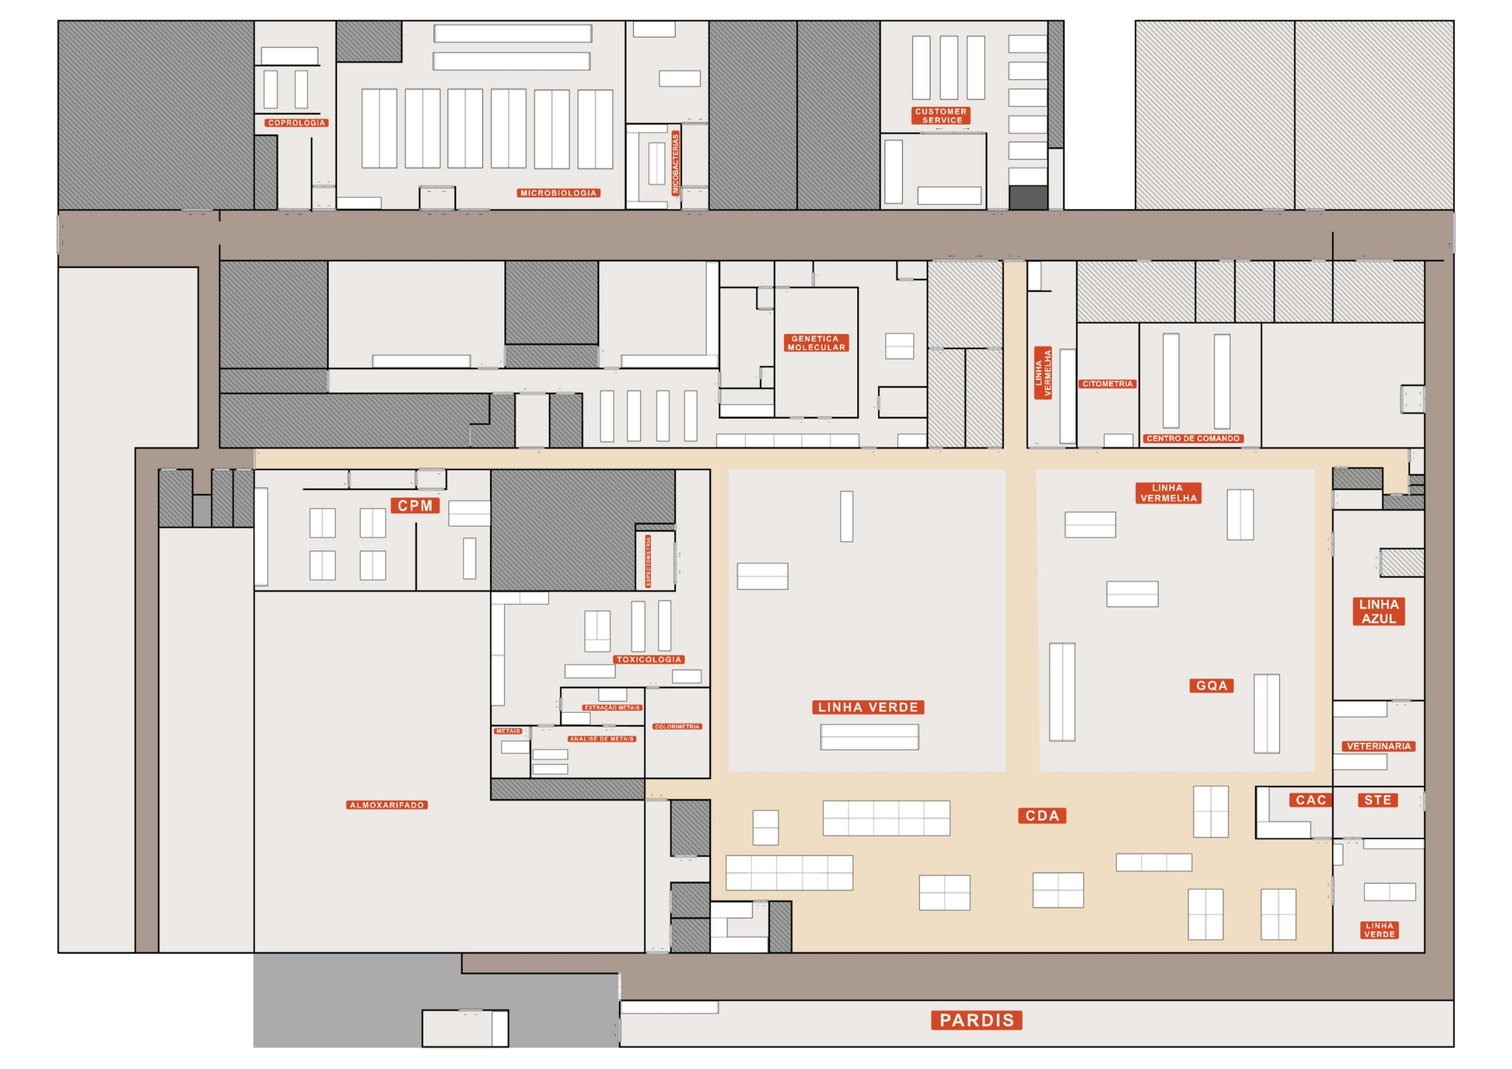
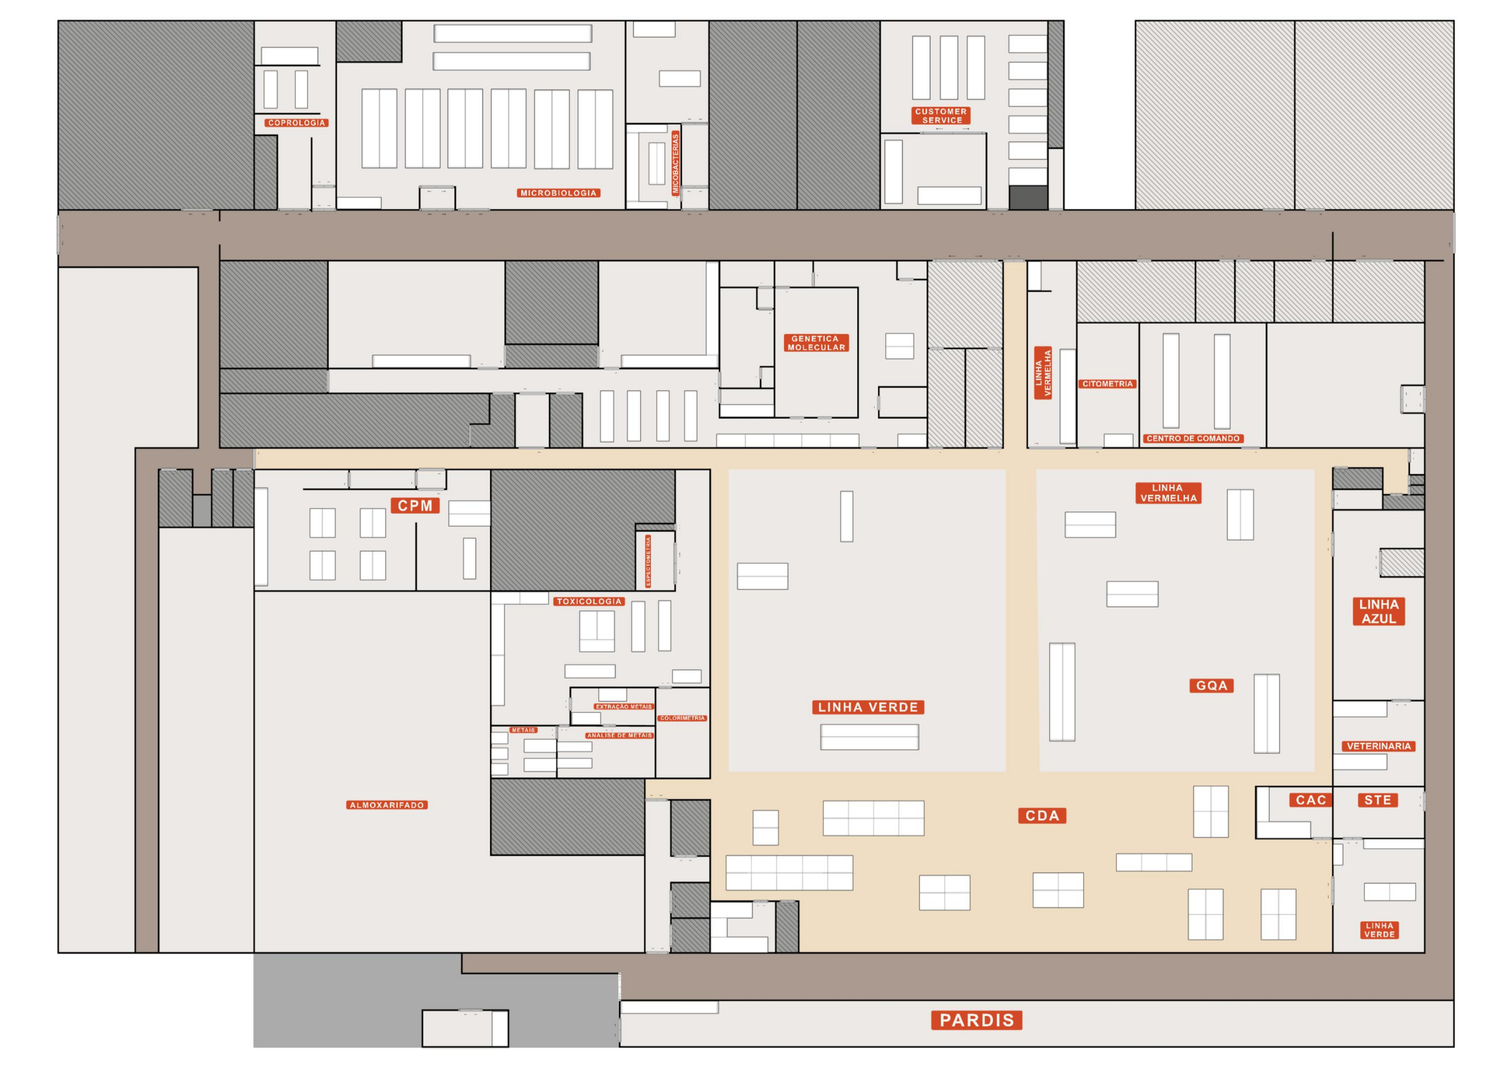
atualização das impressoras e da planta

Changed region(s): [[0.3125, 0.5569, 0.4688, 0.8044], [0.5938, 0.7425, 0.625, 0.8044], [0.5, 0.8354, 0.5312, 0.8972]]

diff --git a/MapaNto/index.html b/MapaNto/index.html
@@ -142,81 +142,82 @@ document.addEventListener('DOMContentLoaded', () => {
   let focusResetTimer = null;
   let repositionTargetSelb = null; // quando setado, clique no mapa reposiciona essa impressora
 
-  const initialPrinters = [
-  { name:'CDA00030', department:'Customer Service', ip:'172.19.114.30', selb:'1LG9', status:'Offline', pos:{top:'11.914484746576989%', left:'68.37635869565217%'} },
-  { name:'NCS14224', department:'Customer Service', ip:'172.19.114.224', selb:'OJL4', status:'Offline', pos:{top:'16.814797021378812%', left:'68.51222826086956%'} },
-  { name:'MIC11475', department:'Microbiologia Minietiqueta 5x3', ip:'172.19.114.75', selb:'Microbiologia GC420t', status:'Offline', pos:{top:'14.893105933221234%', left:'25.78125%'} },
-  { name:'MIC19194', department:'Microbiologia', ip:'172.19.114.192', selb:'5H04', status:'Offline', pos:{top:'11.145808311313957%', left:'25.8491847826087%'} },
-  { name:'CRP04095', department:'Coprologia Minietiqueta 7x3', ip:'172.19.114.92', selb:'Coprologia GC420t', status:'Offline', pos:{top:'5.476819601249099%', left:'19.870923913043477%'} },
-  { name:'MIC22094', department:'Micobacterias', ip:'172.19.114.220', selb:'DCC8', status:'Offline', pos:{top:'16.04612058611578%', left:'43.51222826086957%'} },
-  { name:'MIC02117', department:'Micobacterias Minietiquetas 5x3', ip:'172.19.114.117', selb:'Micobacterias GC420t', status:'Offline', pos:{top:'17.775642565457602%', left:'41.88179347826087%'} },
-  { name:'MIC02494', department:'Micobacterias', ip:'172.19.114.24', selb:'4Q88', status:'Offline', pos:{top:'7.526679928436487%', left:'45.71469009013791%'} },
-  { name:'CDA10394', department:'CAC', ip:'172.19.141.103', selb:'SPR2', status:'Desconhecido', pos:{top:'77.15589718952678%', left:'83.86548913043478%'} },
-  { name:'CDA13094', department:'CDA', ip:'172.19.141.130', selb:'8KQ6', status:'Desconhecido', pos:{top:'84.07398510689407%', left:'84.9524456521739%'} },
-  { name:'CDA15194', department:'CDA', ip:'172.19.141.151', selb:'ZYG3', status:'Offline', pos:{top:'76.96372808071102%', left:'80.53668478260869%'} },
-  { name:'CDA12194', department:'CDA', ip:'172.19.141.121', selb:'8KP6', status:'Desconhecido', pos:{top:'86.57218352149893%', left:'83.72961956521739%'} },
-  { name:'CDA10094', department:'CDA', ip:'172.19.141.100', selb:'PGL6', status:'Offline', pos:{top:'86.57218352149893%', left:'78.90625%'} },
-  { name:'CDA14494', department:'CDA', ip:'172.19.141.144', selb:'3V12', status:'Offline', pos:{top:'74.27336055729042%', left:'80.60461956521739%'} },
-  { name:'LVR19394', department:'Linha Verde', ip:'172.19.114.193', selb:'6PL1', status:'Desconhecido', pos:{top:'83.20922411722316%', left:'90.72690217391305%'} },
-  { name:'TOX11425', department:'Toxicologia', ip:'172.19.114.25', selb:'0AFP', status:'Offline', pos:{top:'54.672111458083116%', left:'50.71331521739131%'} },
-  { name:'TOX11429', department:'Toxicologia', ip:'172.19.114.29', selb:'NDK3', status:'Desconhecido', pos:{top:'53.13475858755705%', left:'49.62635869565217%'} },
-  { name:'HEM14094', department:'Hematologia', ip:'172.19.114.140', selb:'0K65', status:'Offline', pos:{top:'48.13836175834735%', left:'56.01222826086957%'} },
-  { name:'AML22194', department:'Linha Amarela', ip:'172.19.114.221', selb:'7OL4', status:'Offline', pos:{top:'67.93177996637041%', left:'69.7350543478261%'} },
-  { name:'CITO00898', department:'Citometria', ip:'172.19.114.98', selb:'7ZK8', status:'Desconhecido', pos:{top:'41.02810473216431%', left:'73.33559782608695%'} },
-  { name:'AIM00817', department:'Linha Vermelha', ip:'172.19.114.172', selb:'3L29', status:'Offline', pos:{top:'46.985347105452796%', left:'82.30298913043478%'} },
-  { name:'MIC07894', department:'Microbiologia', ip:'172.19.114.78', selb:'16VX', status:'Offline', pos:{top:'14.989190487629115%', left:'27.47961956521739%'} },
-  { name:'MIC24094', department:'Microbiologia', ip:'172.19.114.240', selb:'5G78', status:'Offline', pos:{top:'12.49099207302426%', left:'27.4116847826087%'} },
-  { name:'MIC19245', department:'Microbiologia', ip:'172.19.114.245', selb:'YEJ4', status:'Offline', pos:{top:'9.320201777564256%', left:'27.34375%'} },
-  { name:'MIC02094', department:'Microbiologia', ip:'172.19.114.20', selb:'MIC02094 ZT230', status:'Offline', pos:{top:'14.989190487629115%', left:'28.634510869565215%'} },
-  { name:'MIC23994', department:'Microbiologia', ip:'172.19.114.239', selb:'4R83', status:'Offline', pos:{top:'13.067499399471535%', left:'28.566576086956523%'} },
-  { name:'MIC02194', department:'Microbiologia', ip:'172.19.114.21', selb:'MIC02194 ZT230', status:'Offline', pos:{top:'11.241892865721836%', left:'28.634510869565215%'} },
-  { name:'MIC02118', department:'Microbiologia', ip:'172.19.114.118', selb:'MIC02118 ZT230', status:'Offline', pos:{top:'9.320201777564256%', left:'28.634510869565215%'} },
-  { name:'MIC23894', department:'Microbiologia', ip:'172.19.114.238', selb:'5G71', status:'Desconhecido', pos:{top:'9.320201777564256%', left:'30.197010869565215%'} },
-  { name:'VET16694', department:'Veterinaria', ip:'172.19.114.166', selb:'ZD220 vet', status:'Desconhecido', pos:{top:'66.2187691576274%', left:'90.89156029686242%'} },
-  { name:'CDA11494', department:'CDA', ip:'172.19.141.114', selb:'CDA11494 GC420T', status:'Desconhecido', pos:{top:'74.54615971674862%', left:'79.11613548107458%'} },
-  { name:'GMO11294', department:'NAO SEI', ip:'172.19.114.112', selb:'GMO11294 GC420T', status:'Desconhecido', pos:{top:'84.87532685258167%', left:'49.39451034507161%'} },
-  { name:'GMO09594', department:'NAO SEI', ip:'172.19.114.95', selb:'GMO09594 GC420T', status:'Offline', pos:{top:'84.87532685258167%', left:'48.20564533963149%'} },
-  { name:'GEN11468', department:'NAO SEI', ip:'172.19.114.68', selb:'GEN11468 GC420T', status:'Desconhecido', pos:{top:'86.47674811395113%', left:'47.52629390795142%'} },
-  { name:'CDA14149', department:'NAO SEI', ip:'172.19.114.149', selb:'CDA14149 ZD220', status:'Desconhecido', pos:{top:'87.99809831225213%', left:'50.13047439605835%'} },
-  { name:'CDA10592', department:'CDA', ip:'172.19.114.105', selb:'CDA10592 ZD230', status:'Desconhecido', pos:{top:'82.31305283439052%', left:'48.82838415200489%'} },
-  { name:'CDA10894', department:'CDA', ip:'172.19.141.108', selb:'CDA10894 ZD230', status:'Offline', pos:{top:'82.39312389745899%', left:'50.470150111898384%'} },
-  { name:'CDA12994', department:'CDA', ip:'172.19.141.129', selb:'CDA12994 ZD230', status:'Desconhecido', pos:{top:'82.47319496052747%', left:'52.111916071791875%'} },
-  { name:'CDA10092', department:'CDA', ip:'172.19.141.153', selb:'CDA10092 ZD230', status:'Desconhecido', pos:{top:'82.39312389745899%', left:'53.866907270298725%'} },
-  { name:'CDA16162', department:'CDA', ip:'172.19.141.162', selb:'CDA16162 ZD230', status:'Desconhecido', pos:{top:'82.39312389745899%', left:'55.508673230192215%'} },
-  { name:'CDA12594', department:'CDA', ip:'172.19.141.125', selb:'CDA12594 ZD230', status:'Offline', pos:{top:'80.31127625767868%', left:'55.508673230192215%'} },
-  { name:'CDA15094', department:'CDA', ip:'172.19.141.150', selb:'CDA15094 ZD230', status:'Desconhecido', pos:{top:'80.31127625767868%', left:'53.866907270298725%'} },
-  { name:'CDA16194', department:'CDA', ip:'172.19.114.136', selb:'CDA16194 ZD230', status:'Desconhecido', pos:{top:'80.39134732074716%', left:'50.526762731205054%'} },
-  { name:'CDA13694', department:'CDA', ip:'172.19.141.136', selb:'CDA13694 ZD230', status:'Desconhecido', pos:{top:'80.39134732074716%', left:'48.82838415200489%'} },
-  { name:'CDA15294', department:'CDA', ip:'172.19.141.152', selb:'CDA15294 ZD230', status:'Desconhecido', pos:{top:'77.2685758610767%', left:'55.225610133658854%'} },
-  { name:'CDA15794', department:'CDA', ip:'172.19.114.157', selb:'CDA15794 ZD230', status:'Desconhecido', pos:{top:'77.18850479800822%', left:'56.86737609355236%'} },
-  { name:'CDA13894', department:'CDA', ip:'172.19.141.138', selb:'CDA13894', status:'Desconhecido', pos:{top:'77.2685758610767%', left:'58.50914205344585%'} },
-  { name:'CDA13994', department:'CDA', ip:'172.19.141.139', selb:'CDA13994 ZD230', status:'Desconhecido', pos:{top:'77.2685758610767%', left:'60.207520632646016%'} },
-  { name:'CDA10594', department:'CDA', ip:'172.19.141.105', selb:'CDA10594 ZD230', status:'Offline', pos:{top:'75.34687034743335%', left:'60.207520632646016%'} },
-  { name:'CDA (SEM LIS)', department:'CDA', ip:'172.19.141.124', selb:'CDA (SEM LIS) ZD230', status:'Offline', pos:{top:'75.42694141050183%', left:'58.50914205344585%'} },
-  { name:'TOX14224', department:'Toxicologia', ip:'172.19.114.227', selb:'TOX14224 zd230', status:'Offline', pos:{top:'67.0995508513806%', left:'37.73231076789711%'} },
-  { name:'TOX072', department:'Toxicologia Metais', ip:'172.19.114.72', selb:'TOX072 zd230', status:'Desconhecido', pos:{top:'69.74189593264022%', left:'34.22232837088342%'} },
-  { name:'TOX11191', department:'Toxicologia', ip:'172.19.114.141', selb:'TOX11191 ZT230', status:'Desconhecido', pos:{top:'56.129815210999766%', left:'33.542976939203356%'} },
-  { name:'TOX11214', department:'Toxicologia', ip:'172.19.114.214', selb:'TOX11214 zt230', status:'Offline', pos:{top:'60.93407899510815%', left:'40.6195543525374%'} },
-  { name:'TOX11410', department:'Toxicologia', ip:'172.19.114.10', selb:'TOX11410 zd230', status:'Offline', pos:{top:'61.01415005817663%', left:'39.31746410848393%'} },
-  { name:'TOX11412', department:'Toxicologia', ip:'172.19.114.12', selb:'TOX11412 zd230', status:'Desconhecido', pos:{top:'57.971449661574646%', left:'44.242761988164425%'} },
-  { name:'TOX114184', department:'Toxicologia', ip:'172.19.114.188', selb:'TOX114184 zd230', status:'Desconhecido', pos:{top:'60.45365261669732%', left:'44.242761988164425%'} },
-  { name:'IMU14094', department:'NAO SEI', ip:'172.19.114.145', selb:'IMU14094 ZD230', status:'Offline', pos:{top:'49.644059102453426%', left:'70.73746782368707%'} },
-  { name:'LAM11491', department:'NAO SEI', ip:'172.19.114.91', selb:'LAM11491 GC420T', status:'Desconhecido', pos:{top:'54.76860713883571%', left:'75.66276570336757%'} },
-  { name:'LVM114225', department:'NAO SEI', ip:'172.19.114.225', selb:'LVM114225 GC420T', status:'Offline', pos:{top:'39.79531834503122%', left:'70.39779210784704%'} },
-  { name:'LVER20694', department:'Linha Vermelha', ip:'172.19.114.206', selb:'LVER20694 gc420t', status:'Desconhecido', pos:{top:'25.862953371116866%', left:'68.4163504321135%'} },
-  { name:'GPR95198', department:'Centro de Comando', ip:'172.19.114.119', selb:'GPR95198 GC420t', status:'Offline', pos:{top:'38.75439452514106%', left:'77.2479190439544%'} },
-  { name:'GQA90119', department:'Setor de Qualidade', ip:'172.19.114.119', selb:'GQA90119 gc420t', status:'Desconhecido', pos:{top:'64.21699258091557%', left:'83.13563145184831%'} },
-  { name:'CPM00115', department:'CPM', ip:'172.19.114.115', selb:'CPM00115 ZD230', status:'Offline', pos:{top:'47.40206933653617%', left:'30.259445019416358%'} },
-  { name:'CPM16899', department:'CPM', ip:'172.19.114.168', selb:'CPM16899 ZD220', status:'Offline', pos:{top:'47.24192721039923%', left:'17.464993056108412%'} },
-  { name:'DNA114994', department:'GMO', ip:'172.19.114.181', selb:'DNA114994 ZD230', status:'Desconhecido', pos:{top:'41.15652641719526%', left:'60.773646825712746%'} },
-  { name:'COP13694', department:'GMO', ip:'172.19.114.136', selb:'COP13694 ZD230', status:'Offline', pos:{top:'41.23659748026373%', left:'59.13188086581924%'} },
-  { name:'BR109295', department:'GMO', ip:'172.19.114.101', selb:'BR109295 ZD230', status:'Desconhecido', pos:{top:'33.06934904727946%', left:'58.84881776928589%'} },
-  { name:'GMO10894', department:'GMO', ip:'172.19.114.108', selb:'GMO10894 GC420T', status:'Desconhecido', pos:{top:'41.23659748026373%', left:'55.16899751435218%'} },
-  { name:'GMO10794', department:'GMO', ip:'172.19.114.107', selb:'GMO10794 GC420', status:'Desconhecido', pos:{top:'41.316668543332206%', left:'53.300781077231996%'} },
-  { name:'GMO114175', department:'GMO', ip:'172.19.114.175', selb:'GMO114175 GC420T', status:'Desconhecido', pos:{top:'38.3540392097987%', left:'48.26225795893816%'} },
-  { name:'GMO20994', department:'GMO', ip:'172.19.114.209', selb:'GMO20994 ZD230', status:'Desconhecido', pos:{top:'33.78998861489572%', left:'30.429282877336377%'} },
-  { name:'LVR1879', department:'Linha Verde', ip:'172.19.114.187', selb:'LVR1879 gc420t', status:'Desconhecido', pos:{top:'69.3730482824886%', left:'54.85733695652174%'} }
+ const initialPrinters = [
+  {name:'CDA00030', department:'Customer Service', ip:'172.19.114.30', selb:'1LG9', status:'Offline', pos:{top:'11.914484746576989%', left:'68.37635869565217%'}},
+  {name:'NCS14224', department:'Customer Service', ip:'172.19.114.224', selb:'OJL4', status:'Offline', pos:{top:'16.814797021378812%', left:'68.51222826086956%'}},
+  {name:'MIC11475', department:'Microbiologia Minietiqueta 5x3', ip:'172.19.114.75', selb:'Microbiologia GC420t', status:'Offline', pos:{top:'14.893105933221234%', left:'25.78125%'}},
+  {name:'MIC19194', department:'Microbiologia', ip:'172.19.114.192', selb:'5H04', status:'Offline', pos:{top:'11.145808311313957%', left:'25.8491847826087%'}},
+  {name:'CRP04095', department:'Coprologia Minietiqueta 7x3', ip:'172.19.114.92', selb:'Coprologia GC420t', status:'Offline', pos:{top:'5.476819601249099%', left:'19.870923913043477%'}},
+  {name:'MIC22094', department:'Micobacterias', ip:'172.19.114.220', selb:'DCC8', status:'Offline', pos:{top:'16.04612058611578%', left:'43.51222826086957%'}},
+  {name:'MIC02117', department:'Micobacterias Minietiquetas 5x3', ip:'172.19.114.117', selb:'Micobacterias GC420t', status:'Offline', pos:{top:'17.775642565457602%', left:'41.88179347826087%'}},
+  {name:'MIC02494', department:'Micobacterias', ip:'172.19.114.24', selb:'4Q88', status:'Offline', pos:{top:'7.526679928436487%', left:'45.71469009013791%'}},
+  {name:'CDA10394', department:'CAC', ip:'172.19.141.103', selb:'SPR2', status:'Offline', pos:{top:'77.15589718952678%', left:'83.86548913043478%'}},
+  {name:'CDA13094', department:'CDA', ip:'172.19.141.130', selb:'8KQ6', status:'Offline', pos:{top:'84.07398510689407%', left:'84.9524456521739%'}},
+  {name:'CDA15194', department:'CDA', ip:'172.19.141.151', selb:'ZYG3', status:'Offline', pos:{top:'76.96372808071102%', left:'80.53668478260869%'}},
+  {name:'CDA12194', department:'CDA', ip:'172.19.141.121', selb:'8KP6', status:'Offline', pos:{top:'86.57218352149893%', left:'83.72961956521739%'}},
+  {name:'CDA10094', department:'CDA', ip:'172.19.141.100', selb:'PGL6', status:'Offline', pos:{top:'86.57218352149893%', left:'78.90625%'}},
+  {name:'CDA14494', department:'CDA', ip:'172.19.141.144', selb:'3V12', status:'Offline', pos:{top:'74.65769877492193%', left:'80.40081521739131%'}},
+  {name:'LVR19394', department:'Linha Verde', ip:'172.19.114.193', selb:'6PL1', status:'Offline', pos:{top:'83.20922411722316%', left:'90.72690217391305%'}},
+  {name:'TOX11425', department:'Toxicologia', ip:'172.19.114.25', selb:'0AFP', status:'Offline', pos:{top:'54.672111458083116%', left:'50.71331521739131%'}},
+  {name:'TOX11429', department:'Toxicologia', ip:'172.19.114.29', selb:'NDK3', status:'Offline', pos:{top:'53.13475858755705%', left:'49.62635869565217%'}},
+  {name:'HEM14094', department:'Hematologia', ip:'172.19.114.140', selb:'0K65', status:'Offline', pos:{top:'48.13836175834735%', left:'56.01222826086957%'}},
+  {name:'AML22194', department:'Linha Amarela', ip:'172.19.114.221', selb:'7OL4', status:'Offline', pos:{top:'67.93177996637041%', left:'69.7350543478261%'}},
+  {name:'CITO00898', department:'Citometria', ip:'172.19.114.98', selb:'7ZK8', status:'Offline', pos:{top:'41.02810473216431%', left:'73.33559782608695%'}},
+  {name:'AIM00817', department:'Linha Vermelha', ip:'172.19.114.172', selb:'3L29', status:'Offline', pos:{top:'46.985347105452796%', left:'82.30298913043478%'}},
+  {name:'MIC07894', department:'Microbiologia', ip:'172.19.114.78', selb:'16VX', status:'Offline', pos:{top:'14.989190487629115%', left:'27.47961956521739%'}},
+  {name:'MIC24094', department:'Microbiologia', ip:'172.19.114.240', selb:'5G78', status:'Offline', pos:{top:'12.49099207302426%', left:'27.4116847826087%'}},
+  {name:'MIC19245', department:'Microbiologia', ip:'172.19.114.245', selb:'YEJ4', status:'Offline', pos:{top:'9.320201777564256%', left:'27.34375%'}},
+  {name:'MIC02094', department:'Microbiologia', ip:'172.19.114.20', selb:'MIC02094 ZT230', status:'Offline', pos:{top:'14.989190487629115%', left:'28.634510869565215%'}},
+  {name:'MIC23994', department:'Microbiologia', ip:'172.19.114.239', selb:'4R83', status:'Offline', pos:{top:'13.067499399471535%', left:'28.566576086956523%'}},
+  {name:'MIC02194', department:'Microbiologia', ip:'172.19.114.21', selb:'MIC02194 ZT230', status:'Offline', pos:{top:'11.241892865721836%', left:'28.634510869565215%'}},
+  {name:'MIC02118', department:'Microbiologia', ip:'172.19.114.118', selb:'MIC02118 ZT230', status:'Offline', pos:{top:'9.320201777564256%', left:'28.634510869565215%'}},
+  {name:'MIC23894', department:'Microbiologia', ip:'172.19.114.238', selb:'5G71', status:'Offline', pos:{top:'9.320201777564256%', left:'30.197010869565215%'}},
+  {name:'VET16694', department:'Veterinaria', selb:'ZD220 vet', ip:'172.19.114.166', status:'Desconhecido', pos:{top:'66.2187691576274%', left:'90.89156029686242%'}},
+  {name:'CDA11494', department:'CDA', selb:'CDA11494 GC420T', ip:'172.19.141.114', status:'Desconhecido', pos:{top:'74.54615971674862%', left:'79.11613548107458%'}},
+  {name:'GMO11294', department:'NAO SEI', selb:'GMO11294 GC420T', ip:'172.19.114.112', status:'Desconhecido', pos:{top:'84.87532685258167%', left:'49.39451034507161%'}},
+  {name:'GMO09594', department:'NAO SEI', selb:'GMO09594 GC420T', ip:'172.19.114.95', status:'Offline', pos:{top:'84.87532685258167%', left:'48.20564533963149%'}},
+  {name:'GEN11468', department:'NAO SEI', selb:'GEN11468 GC420T', ip:'172.19.114.68', status:'Desconhecido', pos:{top:'86.47674811395113%', left:'47.52629390795142%'}},
+  {name:'CDA14149', department:'NAO SEI', selb:'CDA14149 ZD220', ip:'172.19.114.149', status:'Desconhecido', pos:{top:'87.99809831225213%', left:'50.13047439605835%'}},
+  {name:'CDA10592', department:'CDA', selb:'8LO1', ip:'172.19.114.105', status:'Offline', pos:{top:'82.31305283439052%', left:'48.82838415200489%'}},
+  {name:'CDA10894', department:'CDA', selb:'3V63', ip:'172.19.141.108', status:'Offline', pos:{top:'82.39312389745899%', left:'50.470150111898384%'}},
+  {name:'CDA12994', department:'CDA', selb:'5N14', ip:'172.19.141.129', status:'Offline', pos:{top:'82.47319496052747%', left:'52.111916071791875%'}},
+  {name:'CDA10092', department:'CDA', selb:'7ZQ4', ip:'172.19.141.153', status:'Offline', pos:{top:'82.39312389745899%', left:'53.866907270298725%'}},
+  {name:'CDA16162', department:'CDA', selb:'7OC4', ip:'172.19.141.162', status:'Offline', pos:{top:'82.39312389745899%', left:'55.508673230192215%'}},
+  {name:'CDA12594', department:'CDA', selb:'NDI2', ip:'172.19.141.125', status:'Offline', pos:{top:'80.31127625767868%', left:'55.508673230192215%'}},
+  {name:'CDA15094', department:'CDA', selb:'5G98', ip:'172.19.141.150', status:'Offline', pos:{top:'80.31127625767868%', left:'53.866907270298725%'}},
+  {name:'CDA16194', department:'CDA', selb:'8LK8', ip:'172.19.114.194', status:'Offline', pos:{top:'80.39134732074716%', left:'50.526762731205054%'}},
+  {name:'CDA13694', department:'CDA', selb:'YEJ3', ip:'172.19.141.136', status:'Offline', pos:{top:'80.39134732074716%', left:'48.82838415200489%'}},
+  {name:'CDA15294', department:'CDA', selb:'YEO4', ip:'172.19.141.152', status:'Offline', pos:{top:'77.2685758610767%', left:'55.225610133658854%'}},
+  {name:'CDA15794', department:'CDA', selb:'XLP6', ip:'172.19.114.157', status:'Offline', pos:{top:'77.18850479800822%', left:'56.86737609355236%'}},
+  {name:'CDA13894', department:'CDA', selb:'YEJ7', ip:'172.19.141.138', status:'Offline', pos:{top:'77.2685758610767%', left:'58.50914205344585%'}},
+  {name:'CDA13994', department:'CDA', selb:'YEM4', ip:'172.19.141.139', status:'Offline', pos:{top:'77.2685758610767%', left:'60.207520632646016%'}},
+  {name:'CDA10594', department:'CDA', selb:'YEK4', ip:'172.19.141.105', status:'Offline', pos:{top:'75.34687034743335%', left:'60.207520632646016%'}},
+  {name:'CDA11124', department:'CDA', selb:'YEQ3', ip:'172.19.141.124', status:'Offline', pos:{top:'75.42694141050183%', left:'58.50914205344585%'}},
+  {name:'TOX14224', department:'Toxicologia', selb:'3V61', ip:'172.19.114.227', status:'Offline', pos:{top:'67.0995508513806%', left:'37.73231076789711%'}},
+  {name:'TOX072', department:'Toxicologia Metais', selb:'3BS2', ip:'172.19.114.72', status:'Offline', pos:{top:'69.74189593264022%', left:'34.22232837088342%'}},
+  {name:'TOX11191', department:'Toxicologia', selb:'TOX11191 ZT230', ip:'172.19.114.141', status:'Desconhecido', pos:{top:'56.129815210999766%', left:'33.542976939203356%'}},
+  {name:'TOX11214', department:'Toxicologia', selb:'TOX11214 zt230', ip:'172.19.114.214', status:'Offline', pos:{top:'60.93407899510815%', left:'40.6195543525374%'}},
+  {name:'TOX11410', department:'Toxicologia', selb:'TOX11410 zd230', ip:'172.19.114.10', status:'Offline', pos:{top:'61.01415005817663%', left:'39.31746410848393%'}},
+  {name:'TOX11412', department:'Toxicologia', selb:'8KL8', ip:'172.19.114.12', status:'Offline', pos:{top:'57.971449661574646%', left:'44.242761988164425%'}},
+  {name:'TOX114184', department:'Toxicologia', selb:'7ZH6', ip:'172.19.114.188', status:'Offline', pos:{top:'60.45365261669732%', left:'44.242761988164425%'}},
+  {name:'IMU14094', department:'Linha Amarela', selb:'6PO3', ip:'172.19.114.145', status:'Offline', pos:{top:'49.644059102453426%', left:'70.73746782368707%'}},
+  {name:'LAM11491', department:'NAO SEI', selb:'LAM11491 GC420T', ip:'172.19.114.91', status:'Offline', pos:{top:'54.76860713883571%', left:'75.66276570336757%'}},
+  {name:'LVM114225', department:'NAO SEI', selb:'LVM114225 GC420T', ip:'172.19.114.225', status:'Offline', pos:{top:'39.79531834503122%', left:'70.39779210784704%'}},
+  {name:'LVER20694', department:'Linha Vermelha', selb:'LVER20694 gc420t', ip:'172.19.114.206', status:'Desconhecido', pos:{top:'25.862953371116866%', left:'68.4163504321135%'}},
+  {name:'GPR95198', department:'Centro de Comando', selb:'GPR95198 GC420t', ip:'172.19.114.119', status:'Offline', pos:{top:'38.75439452514106%', left:'77.2479190439544%'}},
+  {name:'GQA90119', department:'Setor de Qualidade', selb:'GQA90119 gc420t', ip:'172.19.114.119', status:'Desconhecido', pos:{top:'64.21699258091557%', left:'83.13563145184831%'}},
+  {name:'CPM00115', department:'CPM', selb:'3FO3', ip:'172.19.114.115', status:'Offline', pos:{top:'47.40206933653617%', left:'30.259445019416358%'}},
+  {name:'CPM16899', department:'CPM', selb:'CPM16899 ZD220', ip:'172.19.114.168', status:'Offline', pos:{top:'47.24192721039923%', left:'17.464993056108412%'}},
+  {name:'DNA14994', department:'GMO', selb:'8KO5', ip:'172.19.114.181', status:'Offline', pos:{top:'41.15652641719526%', left:'60.773646825712746%'}},
+  {name:'COP13694', department:'GMO', selb:'YYR5', ip:'172.19.114.136', status:'Offline', pos:{top:'41.23659748026373%', left:'59.13188086581924%'}},
+  {name:'BRT09295', department:'GMO', selb:'8KO6', ip:'172.19.114.101', status:'Offline', pos:{top:'33.06934904727946%', left:'58.84881776928589%'}},
+  {name:'GMO10894', department:'GMO', selb:'GMO10894 GC420T', ip:'172.19.114.108', status:'Desconhecido', pos:{top:'41.23659748026373%', left:'55.16899751435218%'}},
+  {name:'GMO10794', department:'GMO', selb:'GMO10794 GC420', ip:'172.19.114.107', status:'Desconhecido', pos:{top:'41.316668543332206%', left:'53.300781077231996%'}},
+  {name:'GMO114175', department:'GMO', selb:'GMO114175 GC420T', ip:'172.19.114.175', status:'Desconhecido', pos:{top:'38.3540392097987%', left:'48.26225795893816%'}},
+  {name:'GMO20994', department:'GMO', selb:'GMO20994 gc420', ip:'172.19.114.209', status:'Offline', pos:{top:'33.78998861489572%', left:'30.429282877336377%'}},
+  {name:'LVR1879', department:'Linha Verde', selb:'LVR1879 gc420t', ip:'172.19.114.187', status:'Desconhecido', pos:{top:'69.3730482824886%', left:'54.85733695652174%'}},
 ];
+
 
 
 
